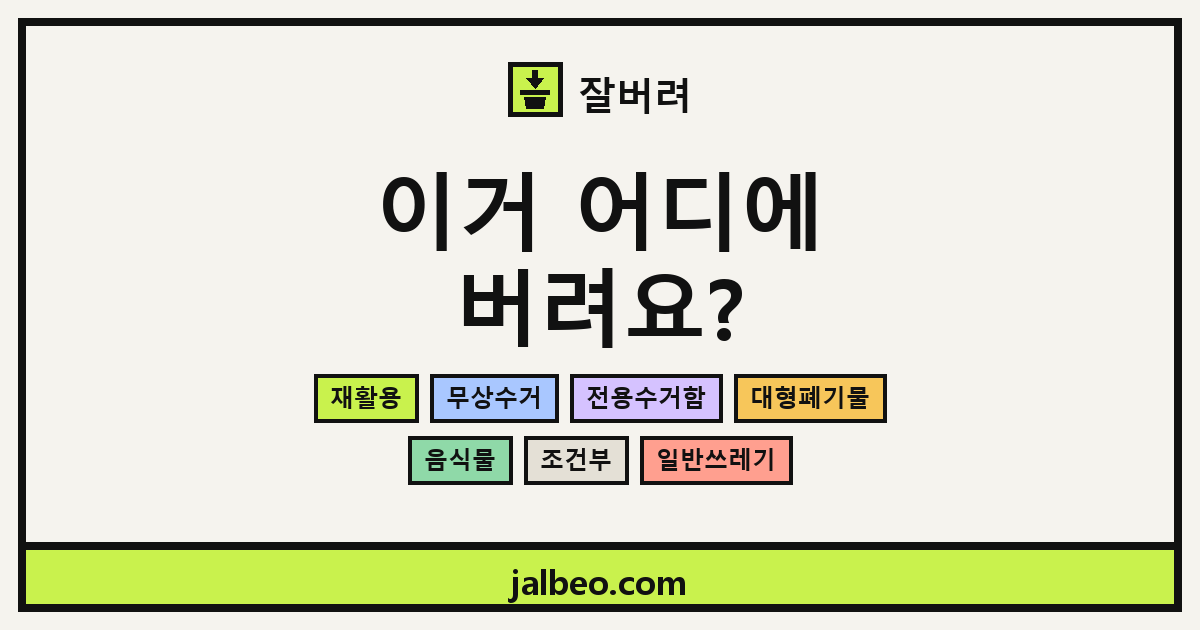
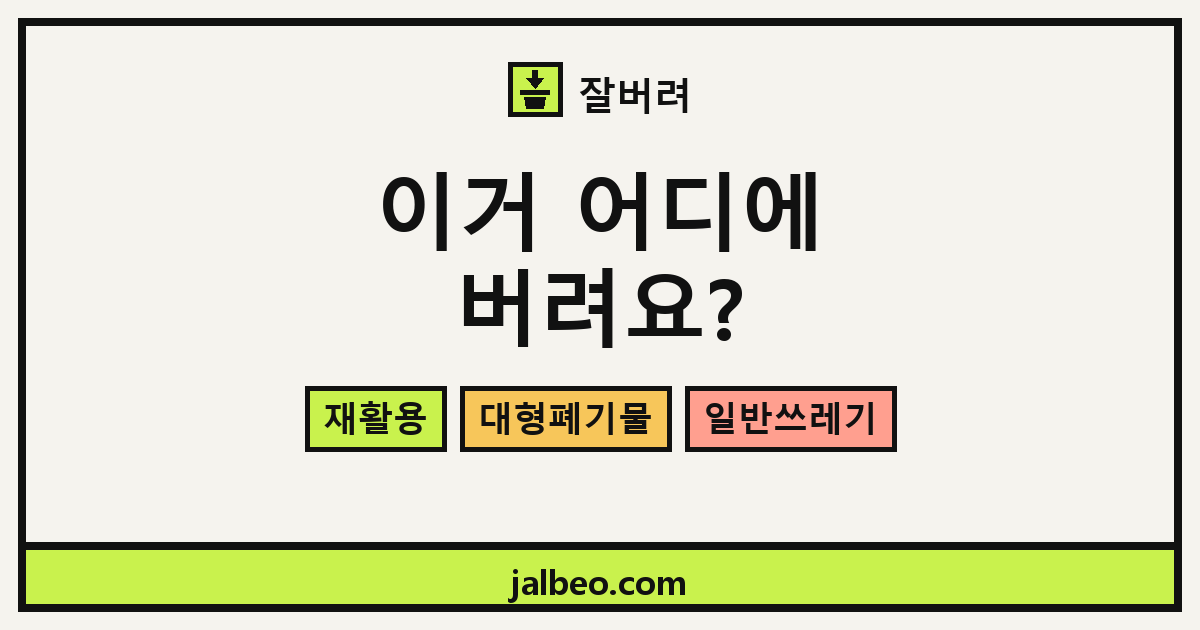
fix: 공유 카드 배지를 셋으로 줄이고 키운다
노션 북마크는 카드를 가로 200px 안팎으로 줄인다. 배지 일곱을 두 줄로 놓으면
글자가 24px 이라 그 자리에서 4px 이 되어 뭉갠다. 판정의 세 갈래
(재활용, 대형폐기물, 일반쓰레기)만 한 줄로 놓고 안전폭에 들어가는 제일 큰
글자를 쓴다. 캐시를 다시 깨려고 og.png?v=3.

Changed region(s): [[0.2467, 0.573, 0.7708, 0.7841]]

diff --git a/scripts/build_brand_assets.py b/scripts/build_brand_assets.py
@@ -45,6 +45,10 @@ VERDICTS = [
     ("일반쓰레기", (255, 159, 143)),
 ]
 
+# 공유 카드에 올릴 배지. 판정 일곱을 다 놓으면 작은 썸네일에서 뭉개진다.
+# 재활용 / 대형폐기물 / 일반쓰레기 는 사용자가 갈리는 세 갈래다
+OG_CHIPS = ("재활용", "대형폐기물", "일반쓰레기")
+
 FONT_BOLD = r"C:\Windows\Fonts\malgunbd.ttf"
 FONT_REG = r"C:\Windows\Fonts\malgun.ttf"
 
@@ -87,19 +91,21 @@ def build_icons():
     return made
 
 
-def chip(d, x, y, text, f, fill):
+CHIP_PAD = 18
+
+
+def chip(d, x, y, text, f, fill, h):
     """판정 배지. 사이트의 배지와 같은 문법이다 - 라운드 없음, 굵은 테두리."""
     box = d.textbbox((0, 0), text, font=f)
     w = box[2] - box[0]
-    pad_x, h = 16, 48
-    d.rectangle([x, y, x + w + pad_x * 2, y + h], fill=fill, outline=INK, width=4)
-    d.text((x + pad_x - box[0], y + h / 2 - (box[3] + box[1]) / 2), text, font=f, fill=INK)
-    return x + w + pad_x * 2
+    d.rectangle([x, y, x + w + CHIP_PAD * 2, y + h], fill=fill, outline=INK, width=5)
+    d.text((x + CHIP_PAD - box[0], y + h / 2 - (box[3] + box[1]) / 2), text, font=f, fill=INK)
+    return x + w + CHIP_PAD * 2
 
 
 def chip_w(d, text, f):
     box = d.textbbox((0, 0), text, font=f)
-    return box[2] - box[0] + 32
+    return box[2] - box[0] + CHIP_PAD * 2
 
 
 def text_w(d, text, f):
@@ -141,16 +147,23 @@ def build_og():
         d.text((CX - text_w(d, line, f_head) // 2, 152 + i * 96),
                line, font=f_head, fill=INK)
 
-    # 판정 배지 두 줄. 각 줄을 가운데 정렬하고 SAFE 폭을 넘기지 않는다
-    f = font(FONT_BOLD, 24)
-    gap = 12
-    rows = (VERDICTS[:4], VERDICTS[4:])
-    for i, row in enumerate(rows):
+    # 판정 배지 한 줄. 일곱 개를 두 줄로 놓으면 글자가 24px 까지 내려가는데,
+    # 노션 북마크는 이 카드를 가로 200px 안팎으로 줄여서 그 크기가 4px 이 된다.
+    # 세 개만 큼직하게 놓아 축소를 견디게 한다. 고른 셋은 판정의 세 갈래다
+    gap = 14
+    row = [(t, c) for t, c in VERDICTS if t in OG_CHIPS]
+    f, size = None, None
+    for size in range(44, 19, -1):  # SAFE 안에 들어가는 제일 큰 글자를 쓴다
+        f = font(FONT_BOLD, size)
         row_w = sum(chip_w(d, t, f) for t, _ in row) + gap * (len(row) - 1)
-        assert row_w <= SAFE, "%d행이 안전폭을 넘는다: %d" % (i + 1, row_w)
-        x = CX - row_w // 2
-        for text, fill in row:
-            x = chip(d, x, 374 + i * 62, text, f, fill) + gap
+        if row_w <= SAFE:
+            break
+    else:
+        raise AssertionError("배지 한 줄이 안전폭에 안 들어간다")
+    h = size + 30
+    x = CX - row_w // 2
+    for text, fill in row:
+        x = chip(d, x, 386, text, f, fill, h) + gap
 
     # 하단 라임 띠. 미리보기가 잘려도 브랜드 색과 주소는 남는다
     d.rectangle([18, H - 88, W - 19, H - 19], fill=LIME)
